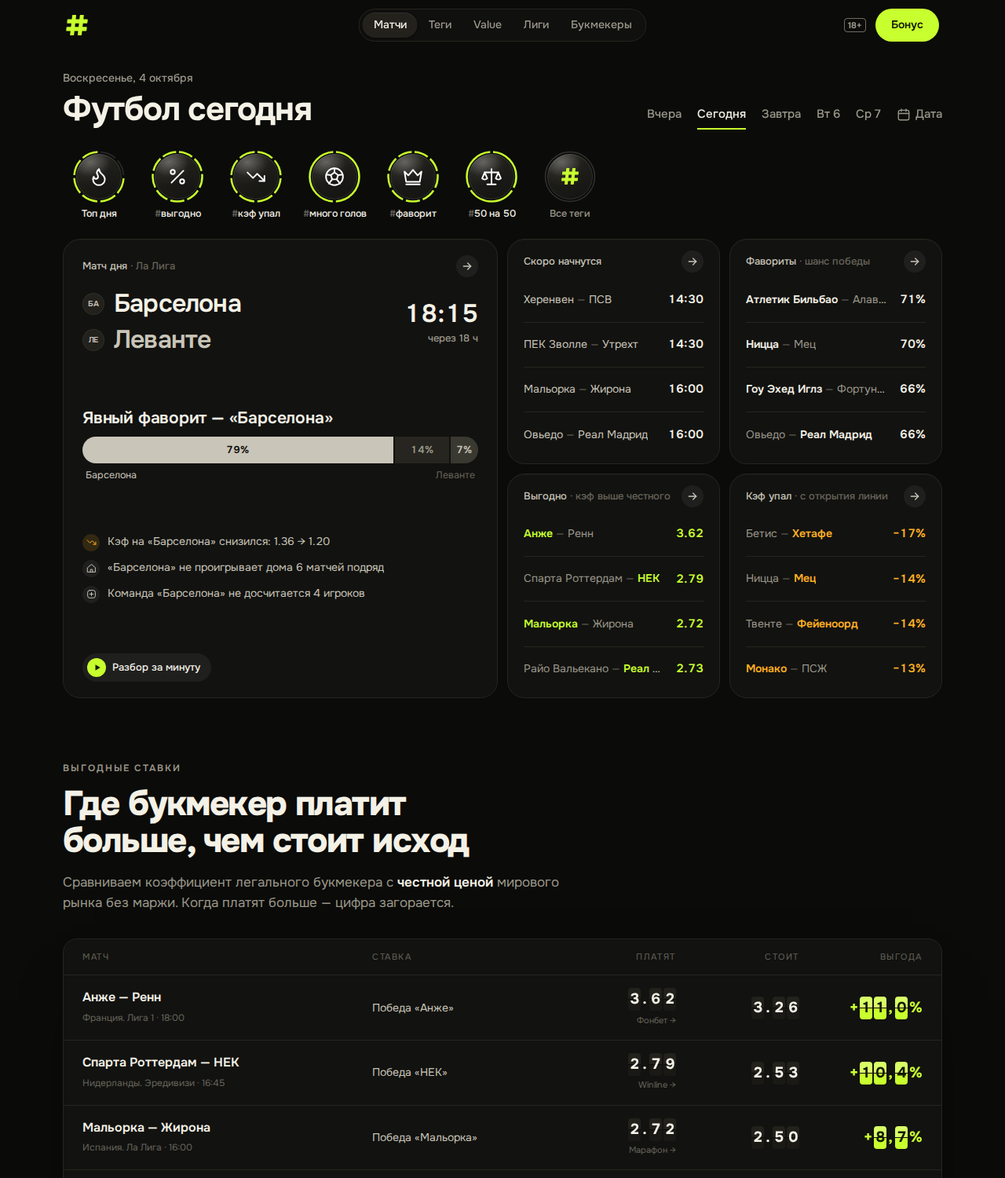
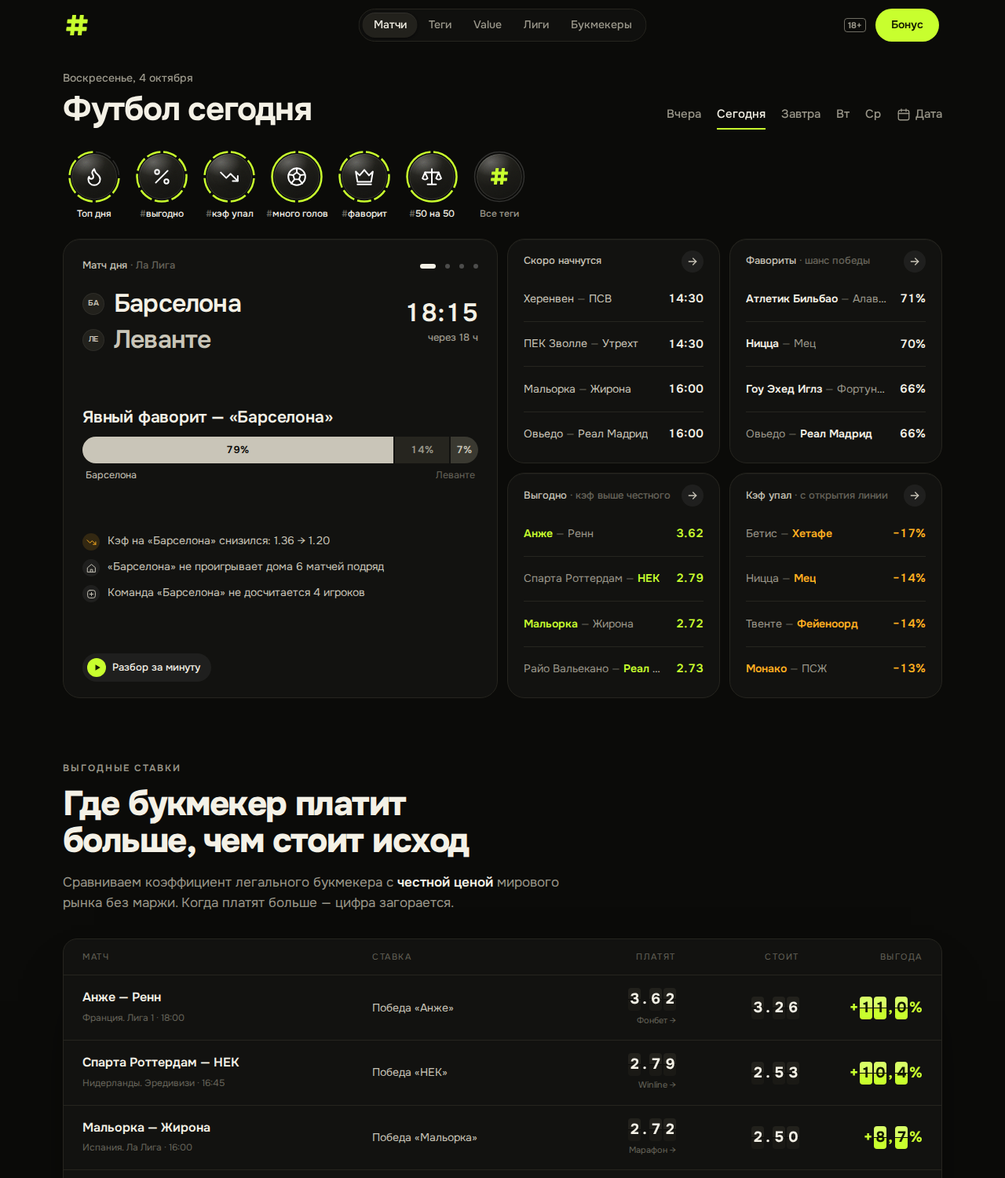
«Матч дня» — карусель по топ-лигам с точками вместо стрелки
- buildDaySummary отдаёт tops: матч дня и главный матч каждой другой
  топ-лиги (до 5, по одному на лигу).
- TopCarousel: точки справа сверху (где мы и переход к слайду), лента
  со scroll-snap — на телефоне листается пальцем, без JS видны все слайды.
  Сама листается раз в 7 с, стоит при наведении и насовсем после ручного
  выбора; при «уменьшить движение» не листается.
- Подпись шапки меняется со слайдом: «Матч дня · Ла Лига», «· Лига 1»…
- Тест карусели в tests/day-summary.test.ts; README, AGENTS.md, docs/home.png.

Claude-Session: https://claude.ai/code/session_01LqCxNKeCAKNwhNzoBsjYvY

diff --git a/components/DaySummary.tsx b/components/DaySummary.tsx
@@ -12,6 +12,7 @@ import { buildVerdict, split100, type Verdict } from '@/lib/verdict'
 import { ArtIcon } from './story/ArtIcon'
 import { StoryLink } from './story/StoryLink'
 import { TeamLogo } from './TeamLogo'
+import { TopCarousel } from './TopCarousel'
 
 /** Ссылка-накладка: вся карточка кликабельна, а текст ссылки — понятное название. */
 const COVER = "after:absolute after:inset-0 after:rounded-[22px] after:content-['']"
@@ -306,10 +307,10 @@ function reasonsFor(it: FeedItem, v: Verdict | null): Reason[] {
 }
 
 /**
- * Матч дня: команды и время → вывод словами и полоса шансов → почему (до трёх фактов) → разбор.
- * На компьютере — высокая карточка слева, лишняя высота делится поровну между блоками.
+ * Слайд «Матча дня»: команды и время → вывод словами и полоса шансов → почему (до трёх фактов) → разбор.
+ * Шапка с лигой и точками — у карусели (TopCarousel); лишняя высота делится поровну между блоками.
  */
-function TopCard({ it, full }: { it: FeedItem; full: boolean }) {
+function TopSlide({ it }: { it: FeedItem }) {
   const m = it.match
   const live = isLive(m)
   const played = Boolean(m.score) && (live || m.status === 'finished')
@@ -328,20 +329,10 @@ function TopCard({ it, full }: { it: FeedItem; full: boolean }) {
     </span>
   )
   return (
-    <article
-      className={`group relative flex min-w-0 flex-col justify-between gap-4 p-5 transition-colors duration-300 hover:border-edge-2 sm:col-span-2 sm:px-6 lg:row-span-2 ${full ? 'lg:col-span-4' : ''} ${CARD}`}
-    >
+    <div className="relative flex min-w-0 flex-1 flex-col justify-between gap-4">
       <div>
-        <div className="flex items-center justify-between gap-3">
-          <p className="min-w-0 truncate text-[13px] font-medium text-chalk">
-            {live ? <span className="mr-1.5 inline-block h-1.5 w-1.5 animate-pulse-live rounded-full bg-live align-middle" /> : null}
-            Матч дня <span className="text-mute">· {leagueShort(m.league)}</span>
-          </p>
-          <Go />
-        </div>
-
         {/* команды, справа — время начала, как на табло; после стартового свистка на этом месте счёт */}
-        <div className="mt-3.5 flex items-center gap-3 text-[21px] font-semibold leading-tight tracking-[-0.025em] sm:text-[23px] lg:gap-5 lg:text-[clamp(23px,3.6vh,32px)]">
+        <div className="flex items-center gap-3 text-[21px] font-semibold leading-tight tracking-[-0.025em] sm:text-[23px] lg:gap-5 lg:text-[clamp(23px,3.6vh,32px)]">
           <StoryLink id={m.id} href={matchHref(m)} className={`block min-w-0 flex-1 space-y-1.5 ${COVER}`}>
             {team(m.home, m.score?.home)}
             {team(m.away, m.score?.away, true)}
@@ -405,12 +396,12 @@ function TopCard({ it, full }: { it: FeedItem; full: boolean }) {
           </span>
         ) : null}
       </div>
-    </article>
+    </div>
   )
 }
 
 /**
- * «Сводка дня» — первый экран главной: слева высокий «Матч дня», справа до четырёх плиток-подборок (2×2).
+ * «Сводка дня» — первый экран главной: слева высокий «Матч дня» (карусель по топ-лигам), справа до четырёх плиток-подборок (2×2).
  * На телефоне — всё столбиком, на планшете — подборки по две в ряд. Сводка тянется до низа окна
  * (см. DayView): строки подборок делят высоту поровну, пустых мест в плитках нет.
  */
@@ -422,7 +413,14 @@ export function DaySummary({ s, className = '' }: { s: Summary; className?: stri
   const span = (i: number) => (n === 1 ? 'sm:col-span-2 lg:row-span-2' : n === 2 || (n === 3 && i === 2) ? 'sm:col-span-2' : '')
   return (
     <section aria-label="Сводка дня" className={`grid gap-3 sm:grid-cols-2 lg:grid-cols-4 ${className}`}>
-      <TopCard it={s.top} full={n === 0} />
+      <TopCarousel
+        heads={s.tops.map((t) => ({ league: leagueShort(t.match.league), live: isLive(t.match) }))}
+        className={`sm:col-span-2 lg:row-span-2 ${n === 0 ? 'lg:col-span-4' : ''} ${CARD}`}
+      >
+        {s.tops.map((t) => (
+          <TopSlide key={t.match.id} it={t} />
+        ))}
+      </TopCarousel>
       {cards.map((k, i) => (
         <div key={k} className={`min-w-0 ${span(i)}`}>
           <ListTile {...cardFor(k, s)} />

diff --git a/components/TopCarousel.tsx b/components/TopCarousel.tsx
@@ -1,0 +1,88 @@
+'use client'
+
+import { Children, useCallback, useEffect, useRef, useState } from 'react'
+
+const AUTO_MS = 7000
+
+/**
+ * «Матч дня» каруселью: по слайду на главный матч каждой топ-лиги. Слайды — обычная лента
+ * с прокруткой и привязкой (на телефоне листаются пальцем; без JS видны все, поисковикам — тоже),
+ * точки справа сверху — где мы и переход к слайду. Сама листается раз в 7 секунд, но замирает,
+ * пока курсор на карточке, и насовсем — после того как человек сам выбрал слайд;
+ * при «уменьшить движение» в системе не листается вовсе.
+ */
+export function TopCarousel({ heads, className = '', children }: { heads: { league: string; live: boolean }[]; className?: string; children: React.ReactNode }) {
+  const track = useRef<HTMLDivElement>(null)
+  const [cur, setCur] = useState(0)
+  const [hold, setHold] = useState(false)
+  const [manual, setManual] = useState(false)
+  const n = Children.count(children)
+
+  const go = useCallback((k: number) => {
+    const el = track.current
+    if (el) el.scrollTo({ left: k * el.clientWidth, behavior: 'smooth' })
+  }, [])
+
+  useEffect(() => {
+    if (n < 2 || hold || manual || matchMedia('(prefers-reduced-motion: reduce)').matches) return
+    const t = window.setTimeout(() => go((cur + 1) % n), AUTO_MS)
+    return () => window.clearTimeout(t)
+  }, [cur, hold, manual, n, go])
+
+  const head = heads[cur] ?? heads[0]
+  return (
+    <article
+      className={`relative flex min-w-0 flex-col py-5 transition-colors duration-300 hover:border-edge-2 ${className}`}
+      onMouseEnter={() => setHold(true)}
+      onMouseLeave={() => setHold(false)}
+      onFocus={() => setHold(true)}
+      onBlur={() => setHold(false)}
+      onTouchStart={() => setManual(true)}
+    >
+      <div className="flex items-center justify-between gap-3 px-5 sm:px-6">
+        <p className="min-w-0 truncate text-[13px] font-medium text-chalk" aria-live="polite">
+          {head?.live ? <span className="mr-1.5 inline-block h-1.5 w-1.5 animate-pulse-live rounded-full bg-live align-middle" /> : null}
+          Матч дня <span className="text-mute">· {head?.league}</span>
+        </p>
+        {n > 1 ? (
+          <div className="relative z-10 -mr-1.5 flex shrink-0 items-center" role="tablist" aria-label="Матчи дня в разных лигах">
+            {heads.map((h, k) => (
+              <button
+                key={k}
+                type="button"
+                role="tab"
+                aria-selected={k === cur}
+                aria-label={`${h.league}: матч дня`}
+                title={h.league}
+                onClick={() => {
+                  setManual(true)
+                  go(k)
+                }}
+                className="group/dot grid h-7 place-items-center px-1.5"
+              >
+                <span
+                  className={`block h-1.5 rounded-full transition-all duration-300 ${k === cur ? 'w-5 bg-fg' : 'w-1.5 bg-white/25 group-hover/dot:bg-white/50'}`}
+                />
+              </button>
+            ))}
+          </div>
+        ) : null}
+      </div>
+      <div
+        ref={track}
+        className="scrollbar-none mt-3.5 flex flex-1 snap-x snap-mandatory overflow-x-auto overscroll-x-contain"
+        onScroll={(e) => {
+          const el = e.currentTarget
+          const k = Math.round(el.scrollLeft / Math.max(1, el.clientWidth))
+          if (k !== cur) setCur(k)
+        }}
+      >
+        {Children.map(children, (c, k) => (
+          <div className="flex w-full shrink-0 snap-start px-5 sm:px-6">
+            {c}
+          </div>
+        ))}
+      </div>
+    </article>
+  )
+}

diff --git a/lib/day-summary.ts b/lib/day-summary.ts
@@ -42,6 +42,8 @@ export type DayLists = {
 export type DaySummary = {
   /** Главный матч дня: топ-турнир + сильные теги. */
   top: FeedItem | null
+  /** Карусель «Матча дня»: первым — матч дня, дальше — главный матч каждой другой топ-лиги (до 5). */
+  tops: FeedItem[]
   /** Самый большой перевес среди предстоящих матчей. */
   value: FeedItem | null
   progruz: ProgruzInfo | null
@@ -69,6 +71,8 @@ const CARDS = 4
 const GOALS_SHOWN = 3
 /** Строк в плитке-подборке: на телефоне и невысоком экране видно три, на высоком — четыре. */
 const LIST_SHOWN = 4
+/** Слайдов в карусели «Матча дня». */
+const TOPS_SHOWN = 5
 
 const isOpen = (it: FeedItem) => it.match.status === 'scheduled' || isLive(it.match)
 const tag = (it: FeedItem, slug: string) => it.tags.find((t) => t.slug === slug)
@@ -149,6 +153,14 @@ export function buildDaySummary(items: FeedItem[], now = Date.now()): DaySummary
   const used = new Set([value?.match.id, progruz?.item.match.id])
   const pool = open.filter((it) => !isMinor(it.match))
   const top = max(pool.filter((it) => !used.has(it.match.id)), prestige) ?? max(pool, prestige) ?? max(open, prestige)
+  // по одному матчу дня на каждую топ-лигу — самый громкий в ней; лига матча дня — уже первая
+  const byLeague = new Map<number, FeedItem>()
+  for (const it of pool) {
+    if (featuredRank(it.match.league) < 0 || it.match.league.id === top?.match.league.id) continue
+    const cur = byLeague.get(it.match.league.id)
+    if (!cur || prestige(it) > prestige(cur)) byLeague.set(it.match.league.id, it)
+  }
+  const tops = top ? [top, ...[...byLeague.values()].sort((a, b) => prestige(b) - prestige(a))].slice(0, TOPS_SHOWN) : []
 
   const liveAll = open.filter((it) => isLive(it.match)).sort((a, b) => liveRank(a.match) - liveRank(b.match) || a.match.ts - b.match.ts)
 
@@ -216,6 +228,7 @@ export function buildDaySummary(items: FeedItem[], now = Date.now()): DaySummary
 
   return {
     top,
+    tops,
     value,
     progruz,
     live: liveAll.slice(0, LIVE_SHOWN),

diff --git a/tests/day-summary.test.ts b/tests/day-summary.test.ts
@@ -168,6 +168,24 @@ describe('сводка дня', () => {
     expect(cards.length).toBeLessThanOrEqual(4)
   })
 
+  it('карусель матча дня: матч дня первым, дальше — по одному из каждой другой топ-лиги', () => {
+    const inLeague = (it: FeedItem, id: number, name: string): FeedItem => ({ ...it, match: { ...it.match, league: { ...it.match.league, id, name } } })
+    const s = buildDaySummary(
+      [
+        item(1, 'scheduled', { ev: 0.05 }),
+        inLeague(item(2, 'scheduled'), 140, 'Испания. Ла Лига'),
+        inLeague(item(3, 'scheduled'), 140, 'Испания. Ла Лига'),
+        inLeague(item(4, 'scheduled'), 78, 'Германия. Бундеслига'),
+        item(5, 'scheduled'),
+      ],
+      NOW,
+    )
+    expect(s.tops[0]).toBe(s.top)
+    const leagues = s.tops.map((t) => t.match.league.id)
+    expect(new Set(leagues).size).toBe(leagues.length)
+    expect(leagues.sort()).toEqual([140, 39, 78].sort())
+  })
+
   it('фаворит с шансом ниже 60% — не виджет', () => {
     const s = buildDaySummary([item(1, 'scheduled', { x12: [2.6, 3.2, 2.8] }), item(2, 'scheduled', { x12: [1.9, 3.4, 4.2] })], NOW)
     expect(s.favorite?.p).toBeLessThan(0.6)

diff --git a/AGENTS.md b/AGENTS.md
@@ -20,7 +20,7 @@ This block is written and re-added by `next dev` — verify at `node_modules/nex
 - Демо без сети: `SSTATS_MOCK=1` (полосы над шапкой нет — только строка в подвале, `IS_MOCK` в `Footer.tsx`). Проверки: `npm run typecheck`, `npm test`, `npm run build`.
 - «Матч в слайдах» (сторис): данные — `lib/story.ts` → `/api/story/[id]`, просмотр и графики — `components/story/`. Ссылки на матч в списках — через `StoryLink` (обычная ссылка для SEO, клик открывает сторис).
 - Кружки историй на главной: группы — `lib/story-groups.ts` (порядок по `lib/rank.ts`), ряд — `components/story/StoryCircles.tsx`, очередь передаётся в просмотрщик через `openStory({ queue })`. Просмотренные — в `localStorage` (`components/story/seen.ts`, ключ `tagbet:seen:v2`), только для колец и отдельно для каждого кружка (отметка «кружок:матч»): просмотр в одном кружке не гасит другие, открытия из списков и виджетов не считаются; сегменты гаснут по порядку от верха. Очередь по тапу и отметки повторов — `components/story/queue.ts` (тест `tests/story-queue.test.ts`). На главной — «В игре», «Топ дня» и до 5 главных тегов (`mainCircles`), подписи в одну строку.
-- «Сводка дня» (виджеты первого экрана главной): данные — `lib/day-summary.ts` (`buildDaySummary`: матч дня и подборки `lists` — live, ближайшие, фавориты от 60%, голы, выгодные, падение кэфа; матч дня в подборках не повторяется; `summaryCards` — какие 4 плитки показать: что идёт (или скоро начнётся) → фавориты → голы → выгодно, запасные — кэф упал, ближайшие, турниры дня), вид — `components/DaySummary.tsx`. На компьютере слева высокий «Матч дня»: команды и время начала справа, как на табло (в игре — счёт; «через 40 мин» — от sm), вывод словами и нейтральная полоса шансов в процентах с подписями «команда · Ничья · команда» (светлая — фаворит), до трёх фактов «почему» из тегов (значки — как у кружков этих тегов; третий — только при высоте окна от 780px), «Разбор за минуту» и «Выгодно». Справа — до 4 плиток-подборок 2×2: каждая отвечает на один вопрос несколькими матчами — заголовок с вопросом и что значит цифра («Фавориты · шанс победы», «Ждём голов · шанс 3+ голов»), строки «команды … цифра» (выделенная команда — ярче или цветом подборки), строка открывает сторис, заголовок со стрелкой `Go` — страницу тега или список матчей. Строки делят высоту плитки поровну (пустот нет); четвёртая — только на lg при высоте окна от 760px. Не возвращайте плитки «одна крупная цифра + один матч» — владелец счёл их неинформативными; и не убирайте «Матч дня» — без него сводка («Главное за день») не понравилась. Всё тёмное, цвет — только у цифр и выделенной команды: лайм — выгодно, янтарь — кэф упал, красный — live; текст не мельче 13px, без колец-диаграмм (похожи на значок загрузки). Выбор дня — `DateTabs` (Вчера · Сегодня · Завтра · дальше день недели без числа; красная точка у «Сегодня», пока идут матчи — `liveToday` из `DayView`) + календарь `DatePicker` (±1 год / +2 месяца). Порядок «Все матчи дня» — переключатель «По турнирам / По времени» ссылками `?sort=time` (без JS, canonical прежний; `TimeBlock` — по часам, с турниром в строке); на прошедших днях переключателя нет — там порядок по турнирам, главные результаты первыми. Первый экран главной (шапка, кружки, сводка) на компьютере занимает всё окно: обёртка в `DayView` — `lg:min-h-[min(calc(100svh-7rem),50rem)]`, сводка — `lg:flex-1`, команды и вывод «Матча дня» растут с высотой окна (`clamp(…vh…)`), а «Все матчи дня» начинаются ниже, по прокрутке. Сводка должна влезать целиком в 1280×720 и 1440×760, а заголовок «Матчи» — не выглядывать снизу; проверяйте замером. На прошедших днях сводки нет.
+- «Сводка дня» (виджеты первого экрана главной): данные — `lib/day-summary.ts` (`buildDaySummary`: матч дня и подборки `lists` — live, ближайшие, фавориты от 60%, голы, выгодные, падение кэфа; матч дня в подборках не повторяется; `summaryCards` — какие 4 плитки показать: что идёт (или скоро начнётся) → фавориты → голы → выгодно, запасные — кэф упал, ближайшие, турниры дня), вид — `components/DaySummary.tsx`. «Матч дня» — карусель `components/TopCarousel.tsx` (клиент): по слайду на главный матч каждой топ-лиги (`tops` в `buildDaySummary`, до 5, первым — матч дня), точки справа сверху вместо стрелки, лента с scroll-snap (свайп на телефоне, без JS видны все слайды), сама листается раз в 7 с, стоит при наведении и насовсем после ручного выбора, при prefers-reduced-motion не листается. На компьютере слева высокий «Матч дня»: команды и время начала справа, как на табло (в игре — счёт; «через 40 мин» — от sm), вывод словами и нейтральная полоса шансов в процентах с подписями «команда · Ничья · команда» (светлая — фаворит), до трёх фактов «почему» из тегов (значки — как у кружков этих тегов; третий — только при высоте окна от 780px), «Разбор за минуту» и «Выгодно». Справа — до 4 плиток-подборок 2×2: каждая отвечает на один вопрос несколькими матчами — заголовок с вопросом и что значит цифра («Фавориты · шанс победы», «Ждём голов · шанс 3+ голов»), строки «команды … цифра» (выделенная команда — ярче или цветом подборки), строка открывает сторис, заголовок со стрелкой `Go` — страницу тега или список матчей. Строки делят высоту плитки поровну (пустот нет); четвёртая — только на lg при высоте окна от 760px. Не возвращайте плитки «одна крупная цифра + один матч» — владелец счёл их неинформативными; и не убирайте «Матч дня» — без него сводка («Главное за день») не понравилась. Всё тёмное, цвет — только у цифр и выделенной команды: лайм — выгодно, янтарь — кэф упал, красный — live; текст не мельче 13px, без колец-диаграмм (похожи на значок загрузки). Выбор дня — `DateTabs` (Вчера · Сегодня · Завтра · дальше день недели без числа; красная точка у «Сегодня», пока идут матчи — `liveToday` из `DayView`) + календарь `DatePicker` (±1 год / +2 месяца). Порядок «Все матчи дня» — переключатель «По турнирам / По времени» ссылками `?sort=time` (без JS, canonical прежний; `TimeBlock` — по часам, с турниром в строке); на прошедших днях переключателя нет — там порядок по турнирам, главные результаты первыми. Первый экран главной (шапка, кружки, сводка) на компьютере занимает всё окно: обёртка в `DayView` — `lg:min-h-[min(calc(100svh-7rem),50rem)]`, сводка — `lg:flex-1`, команды и вывод «Матча дня» растут с высотой окна (`clamp(…vh…)`), а «Все матчи дня» начинаются ниже, по прокрутке. Сводка должна влезать целиком в 1280×720 и 1440×760, а заголовок «Матчи» — не выглядывать снизу; проверяйте замером. На прошедших днях сводки нет.
 - Шапка (логотип — только наклонная лаймовая решётка `LogoMark`, 26 px в шапке и 28 в подвале, без надписи «tag.bet» — так решил владелец; знак — `components/logo-paths.ts` из `public/brand/mark.svg`; без подложки): `components/Header.tsx` + `HeaderShell.tsx` (стекло после прокрутки) + `NavCapsule.tsx` (меню-капсула; раздел по адресу — `activeNav`).
 - Цвета по смыслу: лайм — «цена выше честной» (сила перевеса — яркостью лайма, `edgeTone` в `components/Flaps.tsx`), янтарь — прогруз, красный — live. Светофор не используем.
 - Для тех, кто не разбирается в цифрах: вывод словами — `lib/verdict.ts` (`buildVerdict`: «Скорее выиграет «X»», голы, падение кэфа, выгодная ставка; `split100` — проценты трёх исходов в сумме ровно 100, `outcomeText`/`outcomeShort` — исход словами вместо «П1»/«ТБ 2.5»). Только факты из данных: про прогруз — «кэф снизился», не «массово ставят». Пороги слов — как у тега #фаворит (60%) и слайда «Кто фаворит» (47%). Без обещаний: только «скорее», «вероятно». В строках и «Матче дня» — только выгодная ставка (обычный прогноз модели бывает «против» вывода). Теги подписаны простыми словами (`label`: `#выгодно`, `#кэф упал`…), slug и адреса прежние; цифра тега — в `TagHit.p`, а не в тексте.

diff --git a/README.md b/README.md
@@ -32,8 +32,8 @@
 ## Что уже работает
 
 - Главная и страницы дней: кружки историй («В игре», «Топ дня», до пяти главных тегов и «Все теги»), «сводка
-  дня» из виджетов — она занимает весь первый экран: заходишь и сразу видишь главное. Слева «Матч дня»
-  (команды и время начала, вывод словами, полоса шансов, до трёх фактов «почему»), справа — плитки-подборки,
+  дня» из виджетов — она занимает весь первый экран: заходишь и сразу видишь главное. Слева «Матч дня» —
+  карусель по топ-лигам с точками (команды и время начала, вывод словами, полоса шансов, до трёх фактов «почему»), справа — плитки-подборки,
   каждая отвечает на один вопрос несколькими матчами: что идёт сейчас (или скоро начнётся), фавориты
   с шансом победы, где ждать голов, где кэф выше честного, где он упал. Строка открывает сторис матча,
   заголовок со стрелкой — все такие матчи; список матчей начинается ниже, по прокрутке. Дальше — таблица «Выгодные ставки», матчи по турнирам (топ-лиги
